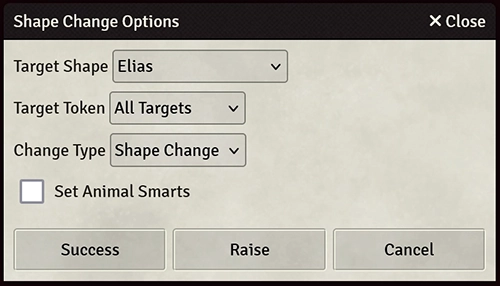
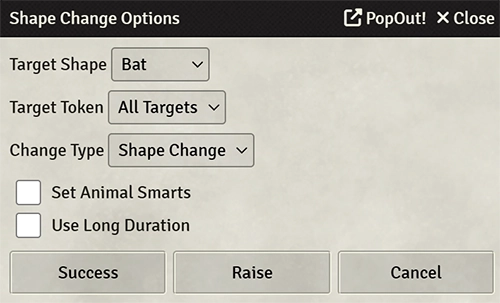
Added support for SUCC

Changed region(s): [[0.0, 0.0, 1.0, 1.0]]

diff --git a/modules/shape-changer.js b/modules/shape-changer.js
@@ -13,7 +13,7 @@ export class ShapeChanger {
      * @param {Boolean} animalSmarts //If true, the smarts on the new actor wil be marked as animal
      * @param {Boolean} raise //If true, make modifications as if the power was cast with a raise
      */
-    static async changeTokenIntoActor(sceneId, originalTokenId, actorToCreateId, typeChoice, animalSmarts, raise) {
+    static async changeTokenIntoActor(sceneId, originalTokenId, actorToCreateId, typeChoice, animalSmarts, longDuration, raise) {
         let originalToken = game.scenes.find(s => s.id == sceneId).tokens.find(t => t.id == originalTokenId);
         const originalActor = originalToken.actor;
         const actorToCreate = await fromUuid(actorToCreateId);
@@ -91,13 +91,14 @@ export class ShapeChanger {
         //Copy over any temporary effects
         //We're not copying permanent effects as there is a high chance that we don't want them. If someone wants them, they can drag them over manually
         let effectsToAdd = originalActor.effects.filter(effect => effect.isTemporary);
-        createdActor.createEmbeddedDocuments("ActiveEffect", effectsToAdd);
+        createdActor.createEmbeddedDocuments("ActiveEffect", effectsToAdd, { render: false });
 
         //The created actor keeps their smarts, spirit, and wounds
         let actorUpdateData = {
+            name: originalActor.name,
             "system.attributes.smarts": originalActor.system.attributes.smarts,
             "system.attributes.spirit": originalActor.system.attributes.spirit,
-            "system.bennies.value": originalActor.system.bennies.value,
+            "system.bennies": originalActor.system.bennies,
             "system.wounds": originalActor.system.wounds,
             "system.fatigue": originalActor.system.fatigue,
             "system.details.autoCalcToughness": true,
@@ -117,6 +118,11 @@ export class ShapeChanger {
         }
 
         await createdActor.update(actorUpdateData);
+
+        if (Utils.useSUCC()) {
+            let duration = longDuration ? 100 : undefined;
+            await game.succ.addCondition(SSC_CONFIG.SUCC_SHAPE_CHANGE, createdToken, { duration });
+        }
 
         //Record our original token so we can use it to revert later
         await createdToken.setFlag(SSC_CONFIG.NAME, SSC_CONFIG.FLAGS.originalToken, originalToken.id);
@@ -187,10 +193,13 @@ export class ShapeChanger {
         //We're going to copy all the ones from the created actor and we're assuming that is the correct state
         let effectsToDelete = originalActor.effects.filter(effect => effect.isTemporary);
         const effectIdsToDelete = effectsToDelete.map(e => e.id);
-        await originalActor.deleteEmbeddedDocuments("ActiveEffect", effectIdsToDelete);
+        await originalActor.deleteEmbeddedDocuments("ActiveEffect", effectIdsToDelete, { render: false });
+        
+        //We're removing the shape change condition here rather than just not adding it below so that it will process macros and output to chat
+        await game.succ.removeCondition(SSC_CONFIG.SUCC_SHAPE_CHANGE, createdToken);
 
         let effectsToAdd = createdActor.effects.filter(effect => effect.isTemporary);
-        await originalActor.createEmbeddedDocuments("ActiveEffect", effectsToAdd);
+        await originalActor.createEmbeddedDocuments("ActiveEffect", effectsToAdd, { render: false });
 
         //Swap the combatants back
         await ShapeChanger.swapTokensInCombat(createdToken, originalToken);

diff --git a/modules/utils.js b/modules/utils.js
@@ -102,4 +102,42 @@ export class Utils {
         item.name.toLowerCase() == "shape change" ||
         item.name.toLowerCase() == "baleful-polymorph";
     }
+
+    static useSUCC() {
+        return game.modules.get('succ')?.active &&
+        Utils.getSetting(SSC_CONFIG.SETTING_KEYS.useSUCC) &&
+        game.succ.getCondition(SSC_CONFIG.SUCC_SHAPE_CHANGE);
+    }
+
+    static validateSUCCConfig() {
+        if (Utils.getSetting(SSC_CONFIG.SETTING_KEYS.useSUCC) &&
+            !game.succ.getCondition(SSC_CONFIG.SUCC_SHAPE_CHANGE)) {
+            //SUCC is enabled but the shape change condition is not
+            //Show a warning to the user and allow them to disable the option
+            new Dialog({
+                title: game.i18n.localize("SSC.SUCCWarning.Title"),
+                content: game.i18n.localize("SSC.SUCCWarning.Body"),
+                buttons: {
+                    ok: { label: game.i18n.localize("SSC.Okay") },
+                    openOptions: {
+                        label: game.i18n.localize("SSC.SUCCWarning.SUCCOptionsButton"),
+                        callback: (html) => {
+                            game.settings.sheet.render(true, {activeCategory: "succ"});
+                        }
+                    },
+                    disable: {
+                        label: game.i18n.localize("SSC.SUCCWarning.DisableSupportButton"),
+                        callback: (html) => {
+                            Utils.setSetting(SSC_CONFIG.SETTING_KEYS.useSUCC, false);
+                            Dialog.prompt({
+                                title: game.i18n.localize("SSC.SUCCDisableConfirmation.Title"),
+                                content: game.i18n.localize("SSC.SUCCDisableConfirmation.Body")
+                            });
+                        }
+                    }
+                },
+                default: "ok"
+            }, {width: 500}).render(true);
+        }
+    }
 }

diff --git a/modules/shape-changer-api.js b/modules/shape-changer-api.js
@@ -68,7 +68,9 @@ export class ShapeChangerAPI {
             targets: targets,
             target: targets[0]?.name,
             changeTypes: SSC_CONFIG.DEFAULT_CONFIG.changeTypes,
-            changeType: "base" };
+            changeType: "base",
+            useSUCC: Utils.useSUCC()
+        };
         const content = await renderTemplate(SSC_CONFIG.DEFAULT_CONFIG.templates.changeShapeDialog, templateData);
 
         //Local function to process the dialog confirmation
@@ -99,6 +101,7 @@ export class ShapeChangerAPI {
 
             const typeChoice = $(html).find("select[name='changeType'").find("option:selected").val();
             const animalSmarts = $(html).find("input[id='animal-smarts'");
+            const longDuration = $(html).find("input[id='duration'");
 
             for (let targetToken of targetTokens) {
                 await game.swadeShapeChanger.socket.executeAsGM(
@@ -108,6 +111,7 @@ export class ShapeChangerAPI {
                     selectedShape.uuid,
                     typeChoice,
                     animalSmarts[0].checked,
+                    !!(longDuration?.length && longDuration[0].checked),
                     raise);
             }
         }

diff --git a/modules/settings.js b/modules/settings.js
@@ -10,4 +10,16 @@ export function registerSettings() {
         default: false,
         config: false
     });
+
+    if (game.modules.get('succ')?.active) {
+        Utils.registerSetting(SSC_CONFIG.SETTING_KEYS.useSUCC, {
+            name: "SSC.Settings.UseSUCCName",
+            hint: "SSC.Settings.UseSUCCHint",
+            scope: "world",
+            type: Boolean,
+            config: true,
+            default: true,
+            onChange: s => { Utils.validateSUCCConfig(); }
+        });
+    }
 }

diff --git a/modules/ssc-config.js b/modules/ssc-config.js
@@ -5,6 +5,7 @@ export const SHORT_TITLE = "SSC";
 
 export const PATH = "modules/swade-shape-changer";
 
+export const SUCC_SHAPE_CHANGE = "shape-change";
 
 export const DEFAULT_CONFIG = {
     templates: {
@@ -25,5 +26,6 @@ export const FLAGS = {
 
 export const SETTING_KEYS = {
     ignoreWoundWarning: "ignoreWoundWarning",
+    useSUCC: "useSUCC",
 }
 

diff --git a/modules/hooks-manager.js b/modules/hooks-manager.js
@@ -33,6 +33,10 @@ export class HooksManager {
             game.swadeShapeChanger.socket.register("revertChangeForToken", ShapeChanger.revertChangeForToken);
         });
 
+        Hooks.once("succReady", () => {
+            Utils.validateSUCCConfig();
+        });
+
         Hooks.on("ready", () => {
             Handlers.onReady();
         });

diff --git a/README.md b/README.md
@@ -3,7 +3,10 @@
 This module for Foundry VTT adds functionality to help automate the shape change power. It handles creating and swapping to a new token and transferring edges, hindrances, attributes, skills, powers, bennies, wounds, and fatigue as described by the Shape Change power. If the token is in a combat, the module also automatically updates the combatant with the new token.
 
 > [!WARNING]
-> Due to certain bugs in the swade system, several item sheets and a choice dialog will open during a shape change. As a work around until the system team has a chance to fix it, I'm forcing the windows to close. This means you will see a bunch of windows pop open for a moment before disappearing. This is expected. Please do not enter any issues about this. 
+> Due to certain bugs in the swade system, several item sheets and a choice dialog will open during a shape change. As a work around until the system team has a chance to fix it, I'm forcing the windows to close. This means you will see a bunch of windows pop open for a moment before disappearing. This is expected. Please do not enter any issues about this.
+
+> [!TIP]
+> If you have the [SUCC module](https://foundryvtt.com/packages/succ) installed with shape change enabled in the Default Conditions settings, the condition will be automatically added and removed when executing shape changes.
 
 ## Usage
 
@@ -19,10 +22,9 @@ Clicking the trash icon will delete the shape from the list.
 
 ![Preview](./shapes_list.webp?raw=true)
 
-
 #### Change Shape Macro
 
-To trigger a shape change, select the token that you wish to use shape change from. You can optionally select one or more targets (shortcut T by default). If no targets are selected, it will default to targetting the source token. Next click the Change Shape macro (found in the macro compendium for this module). This will show the following dialog:
+To trigger a shape change, select the token that you wish to use shape change from. You can optionally select one or more targets (shortcut T by default). If no targets are selected, it will default to targetting the source token. Next click the Change Shape macro (found in the macro compendium for this module) which will display the options dialog.
 
 ![Preview](./change_dialog.webp?raw=true)
 
@@ -30,6 +32,7 @@ Target Shape is the shape that you want the target(s) to transform into. This is
 Target Token (if shown) allows you to select which token you wish to target. This option only appears if more than one token is targeted.
 Change Type contains a choice of either Shape Change or Polymorph. The only difference between the two is that Shape Change will also increase the Strength and Vigor of the new token on a raise.
 If Set Animal Smarts is checked, the new token will have their Smarts marked as Animal.
+If Long Duration is checked, the shape change condition will have a duration of 100 rounds (which might as well be infinite). This option will only appear if SUCC support is enabled.
 Finally, the Success and Raise buttons confirm the shape change. The only difference between the two is that a raise will also increase the Strength and Vigor of the new token if Shape Change was the selected Change Type. 
 
 #### Revert Shape Macro
